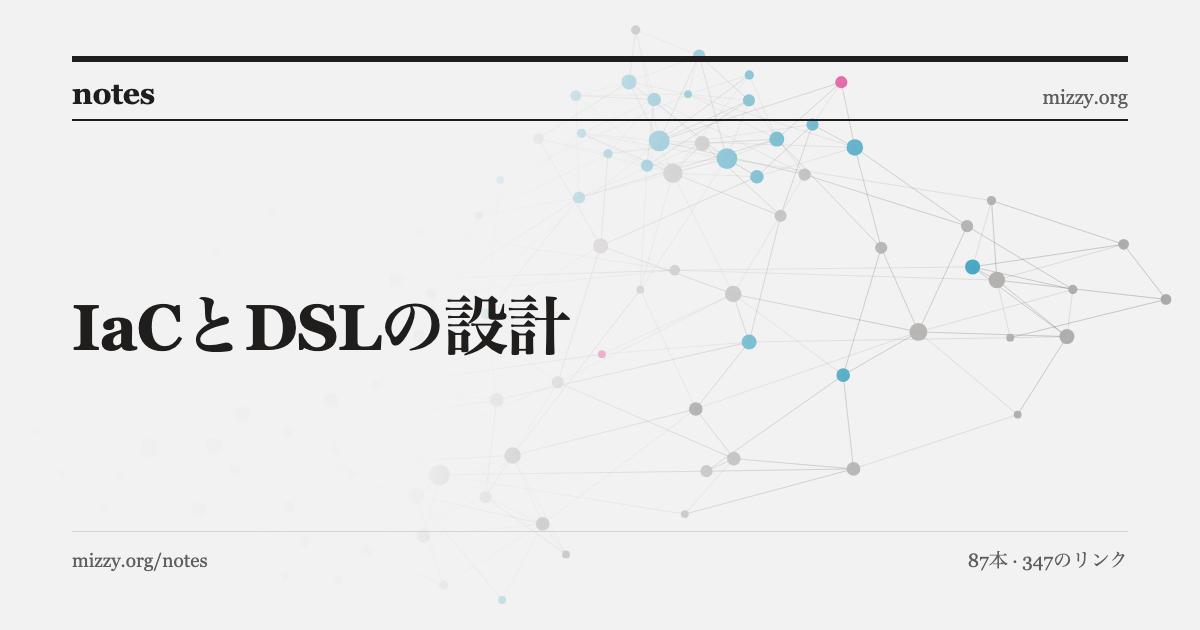
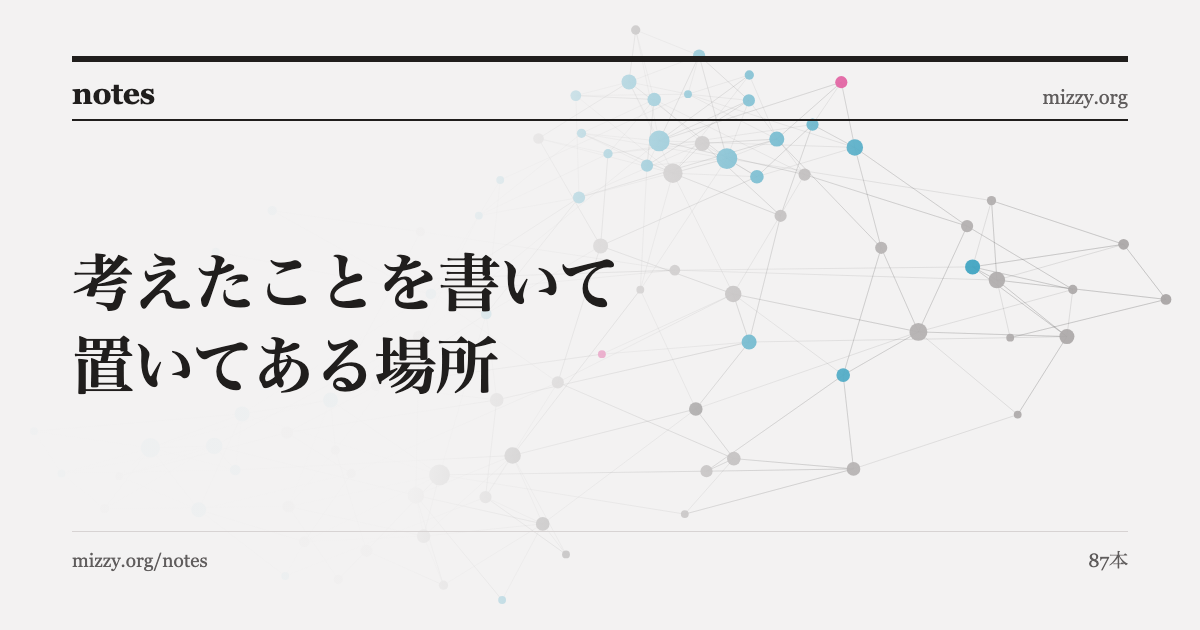
notes: サイト全体の文言から主題を外す
OGPの見出しと index の description / og:description が
「IaCツールとDSLの設計についての探索記録」になっていた。
ここは単なるメモ置き場で、IaCはたまたま今の中身にすぎない。
「考えたことを書いて置いてある場所」に変更。

Changed region(s): [[0.0617, 0.3921, 0.5242, 0.6333], [0.8017, 0.8746, 0.9558, 0.9048]]

diff --git a/notes/index.html b/notes/index.html
@@ -4,12 +4,12 @@
 <meta charset="utf-8">
 <meta name="viewport" content="width=device-width, initial-scale=1">
 <title>notes</title>
-<meta name="description" content="Gosuke Miyashita のノート。IaCツールとDSLの設計についての探索記録。">
+<meta name="description" content="考えたことを書いて置いてある場所。概念ごとに1枚ずつ書いて、互いにリンクしている。">
 <meta property="og:title" content="notes">
 <meta property="og:type" content="website">
 <meta property="og:url" content="https://mizzy.org/notes/">
 <meta property="og:image" content="https://mizzy.org/notes/ogp/index.png">
-<meta property="og:description" content="Gosuke Miyashita のノート。IaCツールとDSLの設計についての探索記録。">
+<meta property="og:description" content="考えたことを書いて置いてある場所。概念ごとに1枚ずつ書いて、互いにリンクしている。">
 <meta property="og:site_name" content="notes — mizzy.org">
 <meta name="twitter:card" content="summary_large_image">
 <meta name="twitter:title" content="notes">
